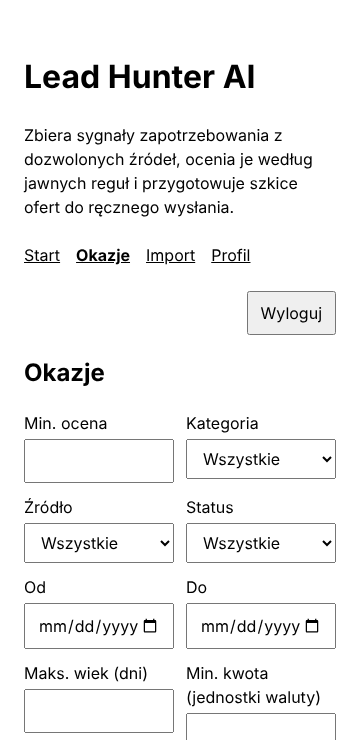
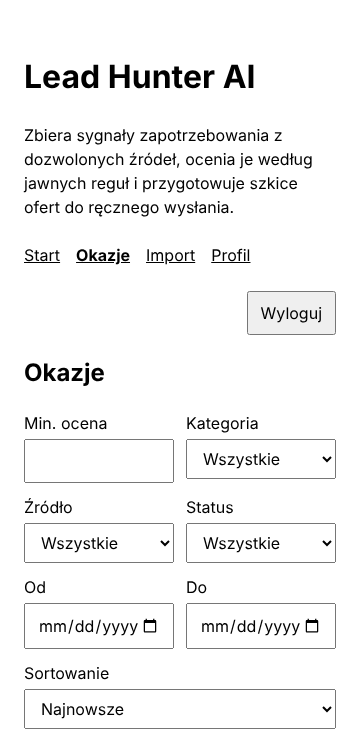
docs(analysis-and-scoring): restore other changes' evidence; tech-stack follows D-10
Refs #5

Changed region(s): [[0.0611, 0.9014, 0.4278, 0.9946], [0.5194, 0.9014, 0.9472, 0.9635], [0.4583, 0.9635, 0.5194, 0.9946]]

diff --git a/context/tech-stack.md b/context/tech-stack.md
@@ -166,6 +166,7 @@ dedup identity) imports nothing but `packages/contracts`. Lint rules enforce it.
 
 ## Local development
 `pnpm dev` starts the API with tsx (watch) on 127.0.0.1 and the Vite dev server proxying
-`/api`; database in `${DATA_DIR}/lead-hunter.db`, dev default `apps/api/data/lead-hunter.db` (gitignored; D-6 of repo-skeleton); LLM provider defaults to `mock` when no key is
-set. `pnpm build` produces `apps/api/dist` and `apps/web/dist`; `pnpm start` serves both from
+`/api`; database in `${DATA_DIR}/lead-hunter.db`, dev default `apps/api/data/lead-hunter.db` (gitignored; D-6 of repo-skeleton); with `LLM_PROVIDER` unset
+analysis is "not configured" (FR-08 AC5); set `LLM_PROVIDER=mock` for demo analyses (D-10 of
+analysis-and-scoring). `pnpm build` produces `apps/api/dist` and `apps/web/dist`; `pnpm start` serves both from
 one process. `pnpm db:migrate` applies migrations; `pnpm discover` runs one cycle from the CLI.
